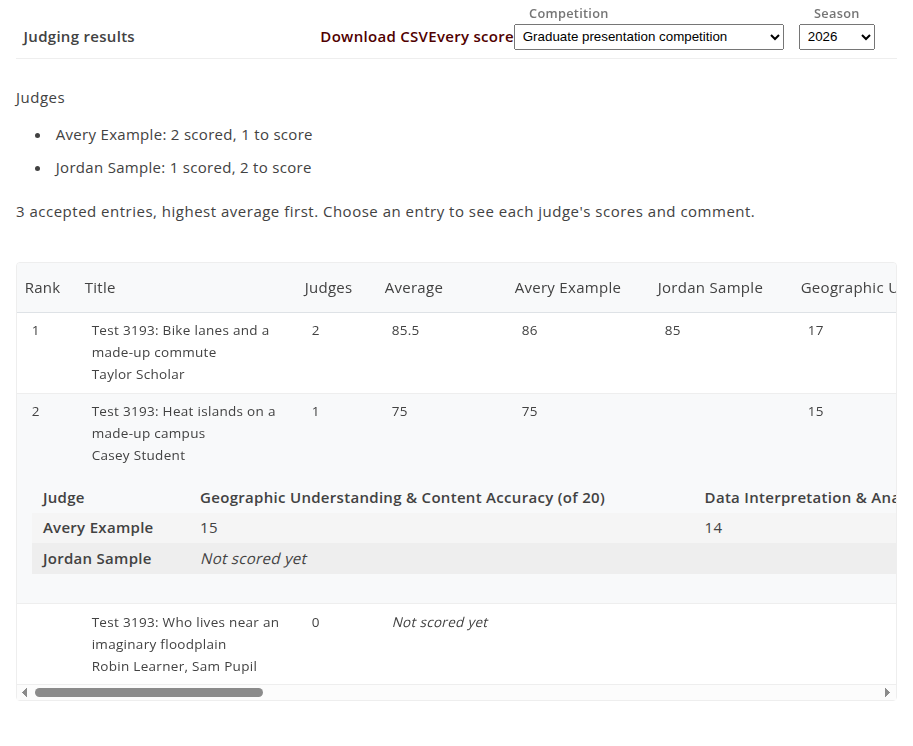
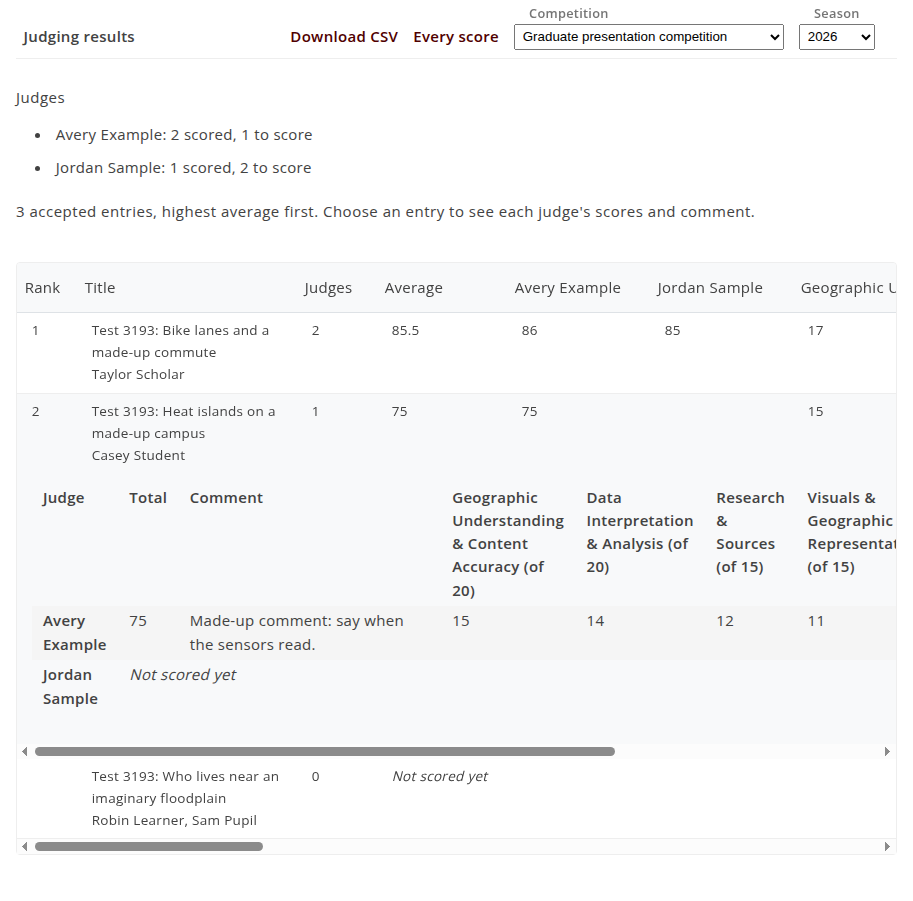
docs(gisday): Re-take the after images of each judge's scores on an entry at 366320bff (#3193)
The toolbar, with Download CSV and Every score 15 px apart, and two breakdowns: Judge, Total and Comment first, the
criteria after, the breakdown as wide as the results box (865 px) and scrolling in its own box. Local run as
gisday.tamu.edu at 1280 px; made-up people at example.com only. The after-breakdown row's caption and alt text now say
the total and comment come first.

diff --git a/docs/releases/unreleased/3193-judge-breakdown.md b/docs/releases/unreleased/3193-judge-breakdown.md
@@ -27,5 +27,5 @@ Every person below is made up, at example.com, and every image is from a local r
 | --- | --- |
 | Before: Judging results, with Download CSV the only download | ![Judging results for the graduate presentation competition: two made-up judges' progress and three entries, with Download CSV in the toolbar](../screenshots/3193-judge-breakdown/before-results.png) |
 | After: the toolbar, with Every score beside Download CSV | ![The Judging results toolbar: Download CSV, Every score, the Competition and the Season](../screenshots/3193-judge-breakdown/after-toolbar.png) |
-| After: an entry both judges scored, opened: a line per judge with their scores | ![The first entry opened: a line for each made-up judge, with their score on the first criteria, under the entry's row](../screenshots/3193-judge-breakdown/after-breakdown.png) |
+| After: an entry both judges scored, opened: a line per judge with their total, comment and scores | ![The first entry opened: a line for each made-up judge, with their total, their comment and their score on the first criteria, under the entry's row](../screenshots/3193-judge-breakdown/after-breakdown.png) |
 | After: an entry only one judge scored: the other is Not scored yet | ![The second entry opened: the first made-up judge's scores, and Not scored yet for the second](../screenshots/3193-judge-breakdown/after-breakdown-unscored.png) |
